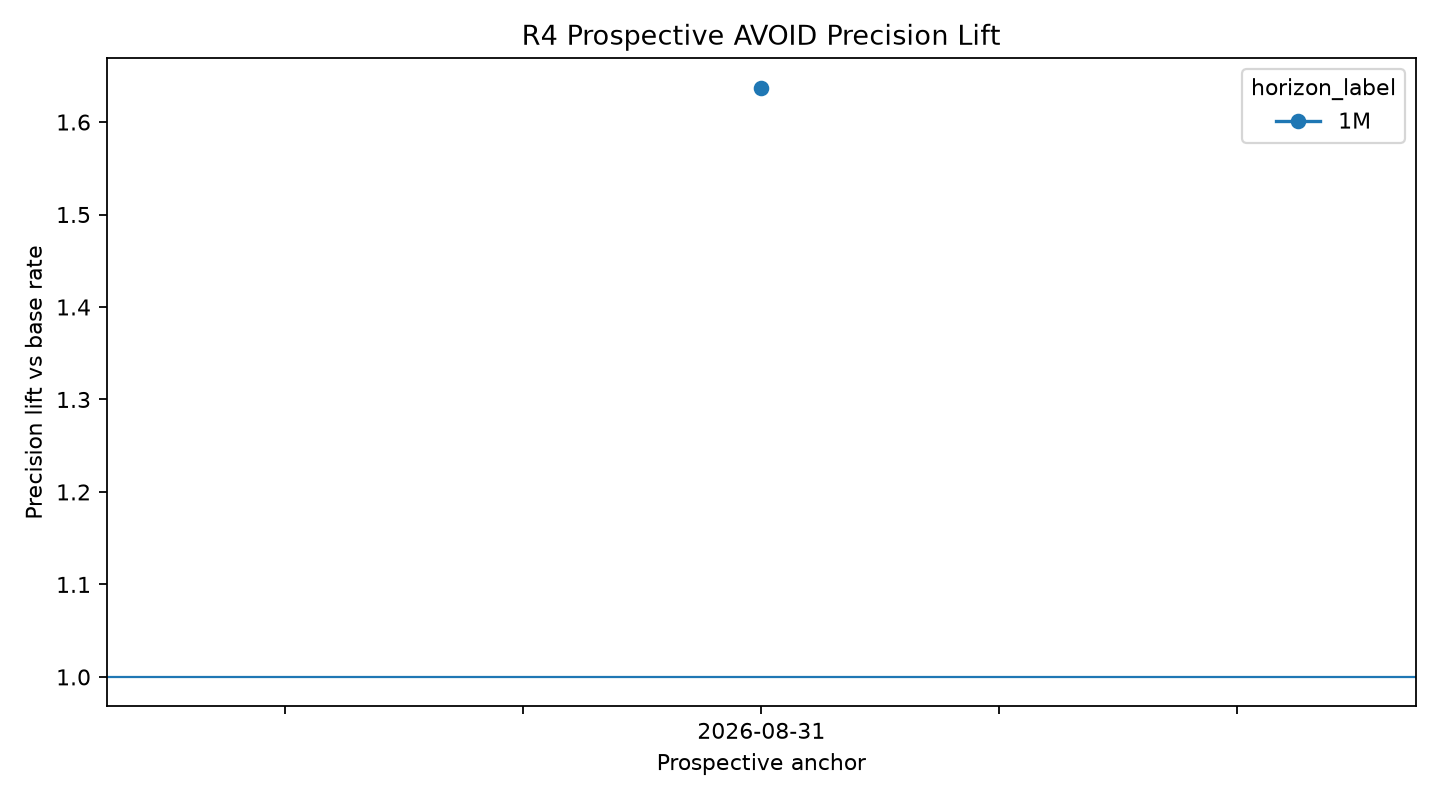
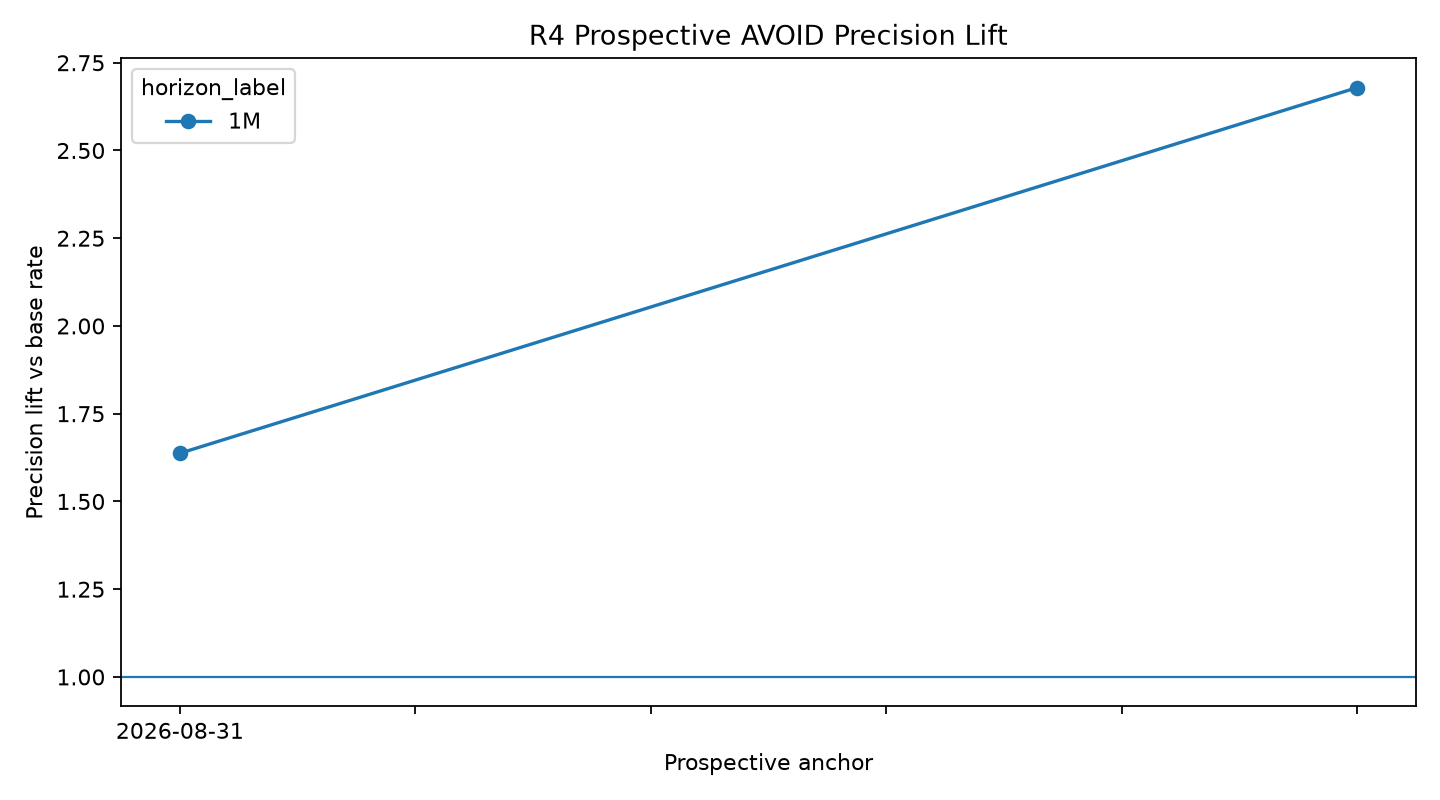
Publish R4 research dashboard

diff --git a/docs/r4.html b/docs/r4.html
@@ -176,10 +176,10 @@ canvas{width:100%;height:100%}
       <span class="eyebrow">Study progress</span>
       <h2>Prospective since Aug 15, 2026</h2>
       <div class="progress-grid">
-        <div class="progress-box"><span>Latest market date</span><strong>Oct 28, 2026</strong></div>
+        <div class="progress-box"><span>Latest market date</span><strong>Oct 29, 2026</strong></div>
         <div class="progress-box"><span>Latest cohort</span><strong>Sep 30, 2026</strong></div>
         <div class="progress-box"><span>Prediction rows</span><strong>1,336</strong></div>
-        <div class="progress-box"><span>Matured outcomes</span><strong>167</strong></div>
+        <div class="progress-box"><span>Matured outcomes</span><strong>334</strong></div>
         <div class="progress-box"><span>Frozen universe</span><strong>167</strong></div>
         <div class="progress-box"><span>First eligible anchor</span><strong>Aug 31, 2026</strong></div>
       </div>
@@ -197,12 +197,12 @@ canvas{width:100%;height:100%}
         <span class="evidence-badge status-muted">Insufficient</span>
       </div>
       <div class="metric-grid compact">
-        <div><span>Evaluated months</span><strong>1</strong></div>
-        <div><span>Ridge IC</span><strong>0.350</strong></div>
-        <div><span>Equal-weight IC</span><strong>0.310</strong></div>
-        <div><span>AVOID AUC</span><strong>0.617</strong></div>
-        <div><span>AVOID lift</span><strong>1.64×</strong></div>
-        <div><span>High-risk vs SPY</span><strong>-2.5%</strong></div>
+        <div><span>Evaluated months</span><strong>2</strong></div>
+        <div><span>Ridge IC</span><strong>0.007</strong></div>
+        <div><span>Equal-weight IC</span><strong>0.134</strong></div>
+        <div><span>AVOID AUC</span><strong>0.723</strong></div>
+        <div><span>AVOID lift</span><strong>2.16×</strong></div>
+        <div><span>High-risk vs SPY</span><strong>-3.6%</strong></div>
       </div>
       <div class="gate-row">
         <span class="gate ">Ridge FAVOR not earned</span>
@@ -1309,12 +1309,12 @@ canvas{width:100%;height:100%}
   </section>
 
   <div class="footer-note">
-    As of Oct 28, 2026. R4 inception Aug 15, 2026. Latest cohort Sep 30, 2026. Production logic changed: no. Historical reoptimization performed: no. Dashboard is informational research output only.
+    As of Oct 29, 2026. R4 inception Aug 15, 2026. Latest cohort Sep 30, 2026. Production logic changed: no. Historical reoptimization performed: no. Dashboard is informational research output only.
   </div>
 </div>
 
 <script>
-const DATA={"ranking":[{"horizon_bars":21,"horizon_label":"1M","anchor_date":"2026-08-31","method":"ridge","issued_rows":167,"matured_rows":167,"maturity_fraction":1.0,"ic":0.3500262813443681,"top_quintile_mean_rel_return":-0.015494382579067408,"bottom_quintile_mean_rel_return":-0.05378974620755908,"q5_minus_q1_spread":0.038295363628491674,"top_quintile_beat_spy_rate":0.4117647058823529,"top_decile_mean_rel_return":0.00011231551613240815,"bottom_decile_mean_rel_return":-0.05309281872631927,"top_decile_beat_spy_rate":0.5882352941176471},{"horizon_bars":21,"horizon_label":"1M","anchor_date":"2026-08-31","method":"equal_weight","issued_rows":167,"matured_rows":167,"maturity_fraction":1.0,"ic":0.30961100064921415,"top_quintile_mean_rel_return":-0.027914893912891623,"bottom_quintile_mean_rel_return":-0.051351357503631005,"q5_minus_q1_spread":0.023436463590739382,"top_quintile_beat_spy_rate":0.11764705882352941,"top_decile_mean_rel_return":-0.03435516310266035,"bottom_decile_mean_rel_return":-0.05553709617134894,"top_decile_beat_spy_rate":0.11764705882352941}],"avoid":[{"horizon_bars":21,"horizon_label":"1M","anchor_date":"2026-08-31","issued_rows":167,"matured_rows":167,"maturity_fraction":1.0,"base_rate":0.19760479041916168,"roc_auc":0.6169154228855722,"average_precision":0.3505417197663099,"top_risk_quintile_precision":0.3235294117647059,"top_risk_quintile_lift":1.6372549019607843,"top_risk_quintile_mean_rel_return":-0.025263552092570283,"top_risk_quintile_beat_spy_rate":0.38235294117647056,"top_risk_decile_precision":0.4117647058823529,"top_risk_decile_lift":2.083778966131907,"top_risk_decile_mean_rel_return":-0.027779765630817382}],"horizonLabels":{"21":"1M","63":"3M","126":"6M","189":"9M"},"initialHorizon":126};
+const DATA={"ranking":[{"horizon_bars":21,"horizon_label":"1M","anchor_date":"2026-08-31","method":"ridge","issued_rows":167,"matured_rows":167,"maturity_fraction":1.0,"ic":0.3500262813443681,"top_quintile_mean_rel_return":-0.015494382579067408,"bottom_quintile_mean_rel_return":-0.05378974620755908,"q5_minus_q1_spread":0.038295363628491674,"top_quintile_beat_spy_rate":0.4117647058823529,"top_decile_mean_rel_return":0.00011231551613240815,"bottom_decile_mean_rel_return":-0.05309281872631927,"top_decile_beat_spy_rate":0.5882352941176471},{"horizon_bars":21,"horizon_label":"1M","anchor_date":"2026-08-31","method":"equal_weight","issued_rows":167,"matured_rows":167,"maturity_fraction":1.0,"ic":0.30961100064921415,"top_quintile_mean_rel_return":-0.027914893912891623,"bottom_quintile_mean_rel_return":-0.051351357503631005,"q5_minus_q1_spread":0.023436463590739382,"top_quintile_beat_spy_rate":0.11764705882352941,"top_decile_mean_rel_return":-0.03435516310266035,"bottom_decile_mean_rel_return":-0.05553709617134894,"top_decile_beat_spy_rate":0.11764705882352941},{"horizon_bars":21,"horizon_label":"1M","anchor_date":"2026-09-30","method":"ridge","issued_rows":167,"matured_rows":167,"maturity_fraction":1.0,"ic":-0.33667948096921474,"top_quintile_mean_rel_return":-0.034581749082239814,"bottom_quintile_mean_rel_return":0.004947500960117837,"q5_minus_q1_spread":-0.039529250042357654,"top_quintile_beat_spy_rate":0.2647058823529412,"top_decile_mean_rel_return":-0.05146658735770107,"bottom_decile_mean_rel_return":0.0032073145622950536,"top_decile_beat_spy_rate":0.17647058823529413},{"horizon_bars":21,"horizon_label":"1M","anchor_date":"2026-09-30","method":"equal_weight","issued_rows":167,"matured_rows":167,"maturity_fraction":1.0,"ic":-0.04137027439257819,"top_quintile_mean_rel_return":-0.007717682952550222,"bottom_quintile_mean_rel_return":-0.014438993232272641,"q5_minus_q1_spread":0.006721310279722419,"top_quintile_beat_spy_rate":0.29411764705882354,"top_decile_mean_rel_return":-0.010415749132846748,"bottom_decile_mean_rel_return":-0.00361834341767954,"top_decile_beat_spy_rate":0.35294117647058826}],"avoid":[{"horizon_bars":21,"horizon_label":"1M","anchor_date":"2026-08-31","issued_rows":167,"matured_rows":167,"maturity_fraction":1.0,"base_rate":0.19760479041916168,"roc_auc":0.6169154228855722,"average_precision":0.3505417197663099,"top_risk_quintile_precision":0.3235294117647059,"top_risk_quintile_lift":1.6372549019607843,"top_risk_quintile_mean_rel_return":-0.025263552092570283,"top_risk_quintile_beat_spy_rate":0.38235294117647056,"top_risk_decile_precision":0.4117647058823529,"top_risk_decile_lift":2.083778966131907,"top_risk_decile_mean_rel_return":-0.027779765630817382},{"horizon_bars":21,"horizon_label":"1M","anchor_date":"2026-09-30","issued_rows":167,"matured_rows":167,"maturity_fraction":1.0,"base_rate":0.19760479041916168,"roc_auc":0.8283582089552239,"average_precision":0.5219097312065896,"top_risk_quintile_precision":0.5294117647058824,"top_risk_quintile_lift":2.679144385026738,"top_risk_quintile_mean_rel_return":-0.04718603954030571,"top_risk_quintile_beat_spy_rate":0.20588235294117646,"top_risk_decile_precision":0.6470588235294118,"top_risk_decile_lift":3.2745098039215685,"top_risk_decile_mean_rel_return":-0.0661977284140009}],"horizonLabels":{"21":"1M","63":"3M","126":"6M","189":"9M"},"initialHorizon":126};
 let selectedHorizon=DATA.initialHorizon;
 
 function activateHorizon(h){

diff --git a/docs/r4-data/r4_report.md b/docs/r4-data/r4_report.md
@@ -2,14 +2,14 @@
 
 **This report contains only predictions issued after the R4 inception date.**
 
-- Latest market date: 2026-10-28
+- Latest market date: 2026-10-29
 - Latest completed prospective anchor: 2026-09-30
 - Immutable prediction rows: 1,336
-- Immutable matured outcome rows: 167
+- Immutable matured outcome rows: 334
 
 ## Evidence status
 
-- **1M**: INSUFFICIENT; 1 evaluated month(s); Ridge IC 0.3500262813443681; AVOID AUC 0.6169154228855722.
+- **1M**: INSUFFICIENT; 2 evaluated month(s); Ridge IC 0.006673400187576672; AVOID AUC 0.7226368159203981.
 - **3M**: INSUFFICIENT; 0 evaluated month(s); Ridge IC n/a; AVOID AUC n/a.
 - **6M**: INSUFFICIENT; 0 evaluated month(s); Ridge IC n/a; AVOID AUC n/a.
 - **9M**: INSUFFICIENT; 0 evaluated month(s); Ridge IC n/a; AVOID AUC n/a.
